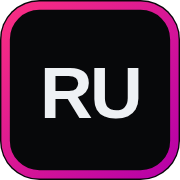
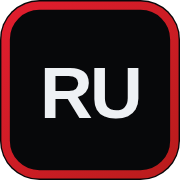
Deploy to GitHub Pages; switch accent from pink to red
- Add GitHub Actions workflow to build with Vite and deploy to Pages on push to main
- Set Vite base to /3d/ for https://rulloa1.github.io/3d/
- Add canonical + og:url, make og:image/twitter:image absolute
- Replace pink/magenta accent with red (#E11D2E -> #B91C1C) in CSS theme, gradients, shadows, favicon, noscript links
- Regenerate og-image.jpg and apple-touch-icon.png with the new red palette

Changed region(s): [[0.0, 0.0, 1.0, 1.0]]

diff --git a/index.html b/index.html
@@ -11,24 +11,25 @@
     <meta name="author" content="Rory Ulloa" />
     <meta name="theme-color" content="#07080a" />
     <meta name="color-scheme" content="dark" />
-    <!-- TODO(rory): once deployed, add <link rel="canonical" href="https://YOUR-DOMAIN/" /> and make og:image/og:url absolute. -->
+    <link rel="canonical" href="https://rulloa1.github.io/3d/" />
 
     <link rel="icon" href="/favicon.svg" type="image/svg+xml" />
     <link rel="apple-touch-icon" href="/apple-touch-icon.png" />
 
     <!-- Open Graph / social previews -->
     <meta property="og:type" content="website" />
+    <meta property="og:url" content="https://rulloa1.github.io/3d/" />
     <meta property="og:title" content="Rory Ulloa | Freelance Web Developer &amp; 3D Artist" />
     <meta
       property="og:description"
       content="Fast, responsive websites for small businesses: new builds, bug fixes, responsive redesigns and updates."
     />
-    <meta property="og:image" content="/og-image.jpg" />
+    <meta property="og:image" content="https://rulloa1.github.io/3d/og-image.jpg" />
     <meta property="og:image:width" content="1200" />
     <meta property="og:image:height" content="630" />
     <meta name="twitter:card" content="summary_large_image" />
     <meta name="twitter:title" content="Rory Ulloa | Freelance Web Developer &amp; 3D Artist" />
-    <meta name="twitter:image" content="/og-image.jpg" />
+    <meta name="twitter:image" content="https://rulloa1.github.io/3d/og-image.jpg" />
 
     <!-- Fonts: preconnect + only the weights in use -->
     <link rel="preconnect" href="https://fonts.googleapis.com" />
@@ -55,8 +56,8 @@
     <noscript>
       <p style="padding: 2rem; font-family: sans-serif; color: #eef1f4; background: #07080a">
         Rory Ulloa, Freelance Web Developer &amp; 3D Artist. Email
-        <a href="mailto:rory@theroyeffect.com" style="color: #fa2e82">rory@theroyeffect.com</a> or call
-        <a href="tel:+13464623734" style="color: #fa2e82">(346) 462-3734</a>.
+        <a href="mailto:rory@theroyeffect.com" style="color: #f04452">rory@theroyeffect.com</a> or call
+        <a href="tel:+13464623734" style="color: #f04452">(346) 462-3734</a>.
       </p>
     </noscript>
     <div id="root"></div>

diff --git a/src/index.css b/src/index.css
@@ -4,7 +4,7 @@
   --font-sans: "Inter", ui-sans-serif, system-ui, -apple-system, "Segoe UI", sans-serif;
   --font-display: "Syne", "Inter", ui-sans-serif, system-ui, sans-serif;
 
-  /* Palette: near-black surfaces, cool off-white text, brand pink -> magenta accent */
+  /* Palette: near-black surfaces, cool off-white text, brand red accent (complements the avatar's red jacket) */
   --color-ink: #07080a;
   --color-surface: #0e1014;
   --color-surface-2: #14171c;
@@ -12,8 +12,8 @@
   --color-fg: #eef1f4;
   --color-muted: #a6afb8; /* ~8.6:1 on ink */
   --color-subtle: #7d8791; /* ~5.2:1 on ink, for small labels */
-  --color-accent: #fa2e82; /* ~5.4:1 on ink */
-  --color-accent-2: #b600a8;
+  --color-accent: #e11d2e; /* ~4.2:1 on ink: icons, large text, buttons (white text ~4.8:1) */
+  --color-accent-2: #b91c1c; /* darker red for gradient ends / hover */
 }
 
 @layer base {
@@ -92,7 +92,7 @@
   }
 
   .accent-text {
-    background: linear-gradient(90deg, var(--color-accent), #ff7ab3);
+    background: linear-gradient(90deg, var(--color-accent), #f04452);
     -webkit-background-clip: text;
     background-clip: text;
     -webkit-text-fill-color: transparent;
@@ -103,7 +103,7 @@
   }
 
   .btn-primary {
-    @apply bg-gradient-to-r from-accent to-accent-2 text-white shadow-[0_10px_40px_-10px_rgba(250,46,130,0.6)] hover:-translate-y-0.5 hover:shadow-[0_16px_50px_-10px_rgba(250,46,130,0.75)];
+    @apply bg-gradient-to-r from-accent to-accent-2 text-white shadow-[0_10px_40px_-10px_rgba(225,29,46,0.6)] hover:-translate-y-0.5 hover:shadow-[0_16px_50px_-10px_rgba(225,29,46,0.75)];
   }
 
   .btn-ghost {

diff --git a/vite.config.ts b/vite.config.ts
@@ -4,6 +4,8 @@ import path from 'path';
 import { defineConfig } from 'vite';
 
 export default defineConfig({
+    // Served from https://rulloa1.github.io/3d/ on GitHub Pages.
+    base: '/3d/',
     plugins: [react(), tailwindcss()],
     resolve: {
       alias: {
